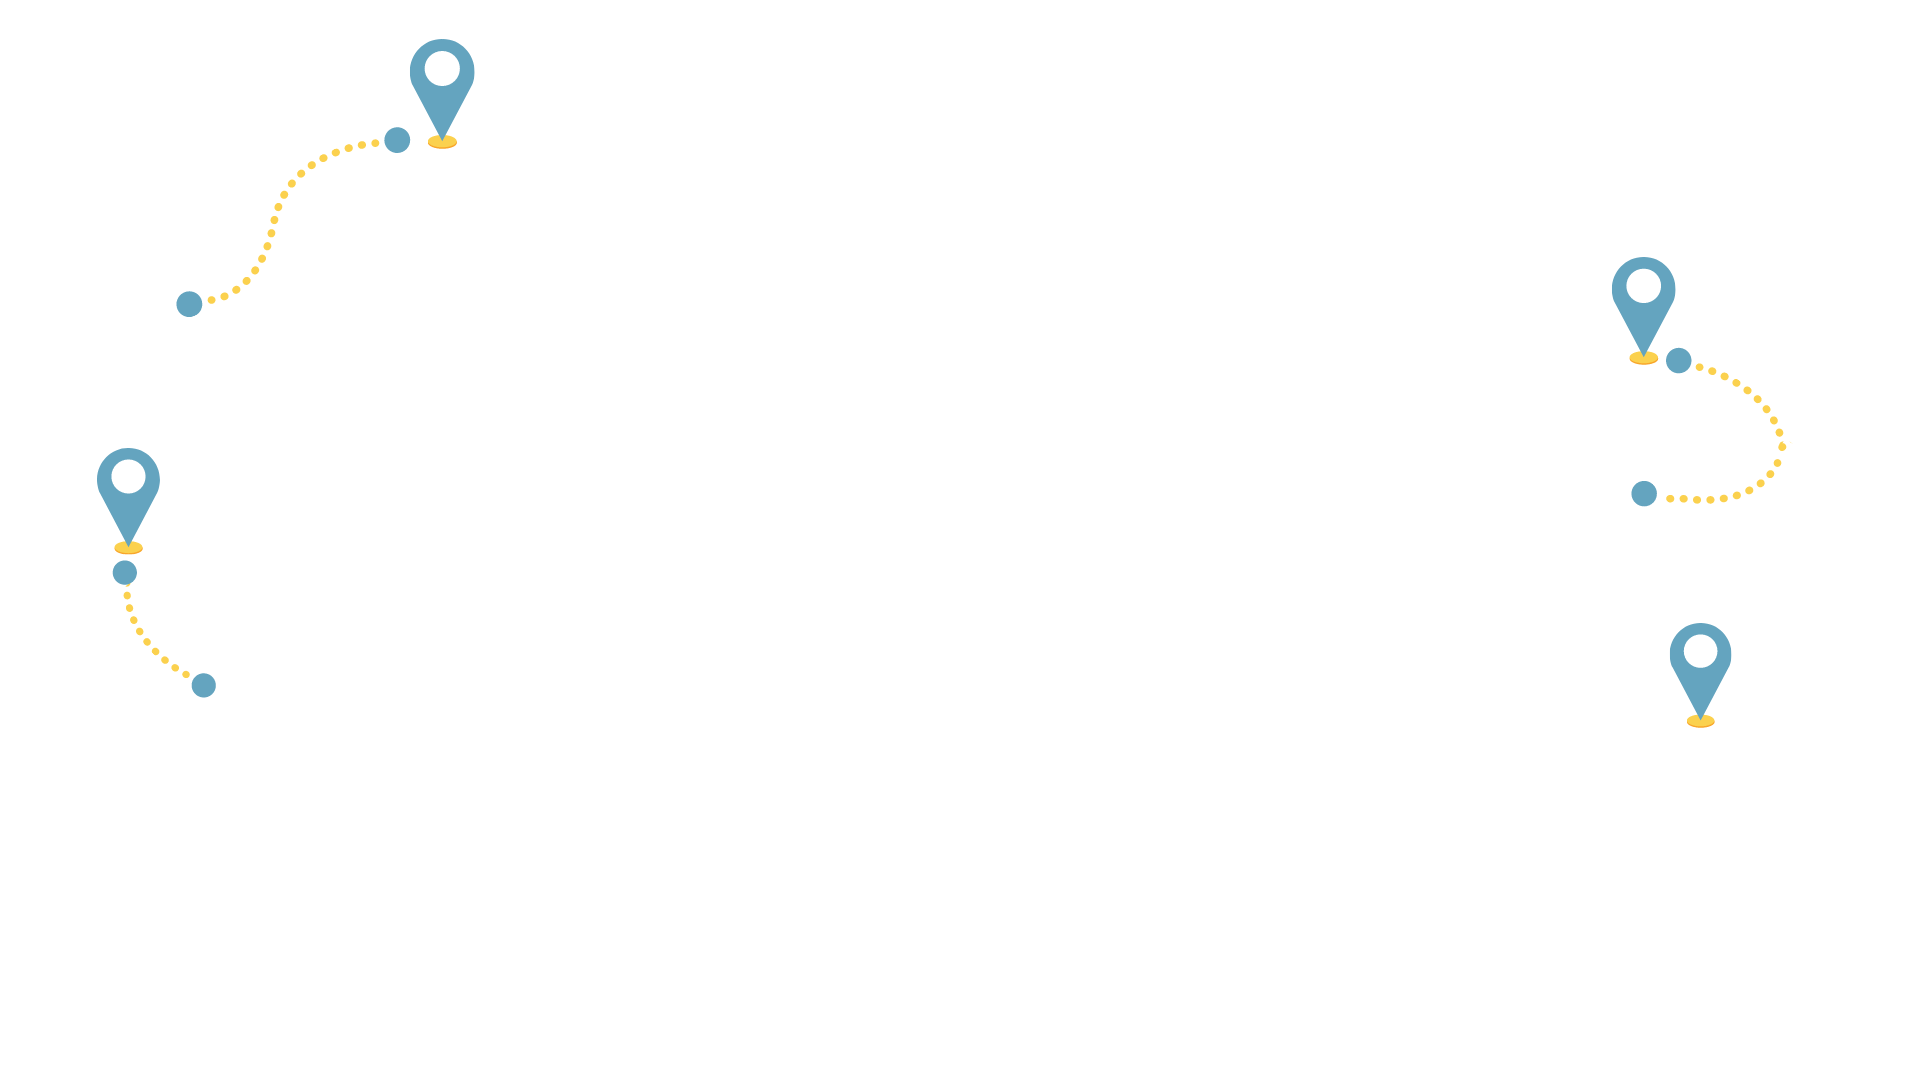
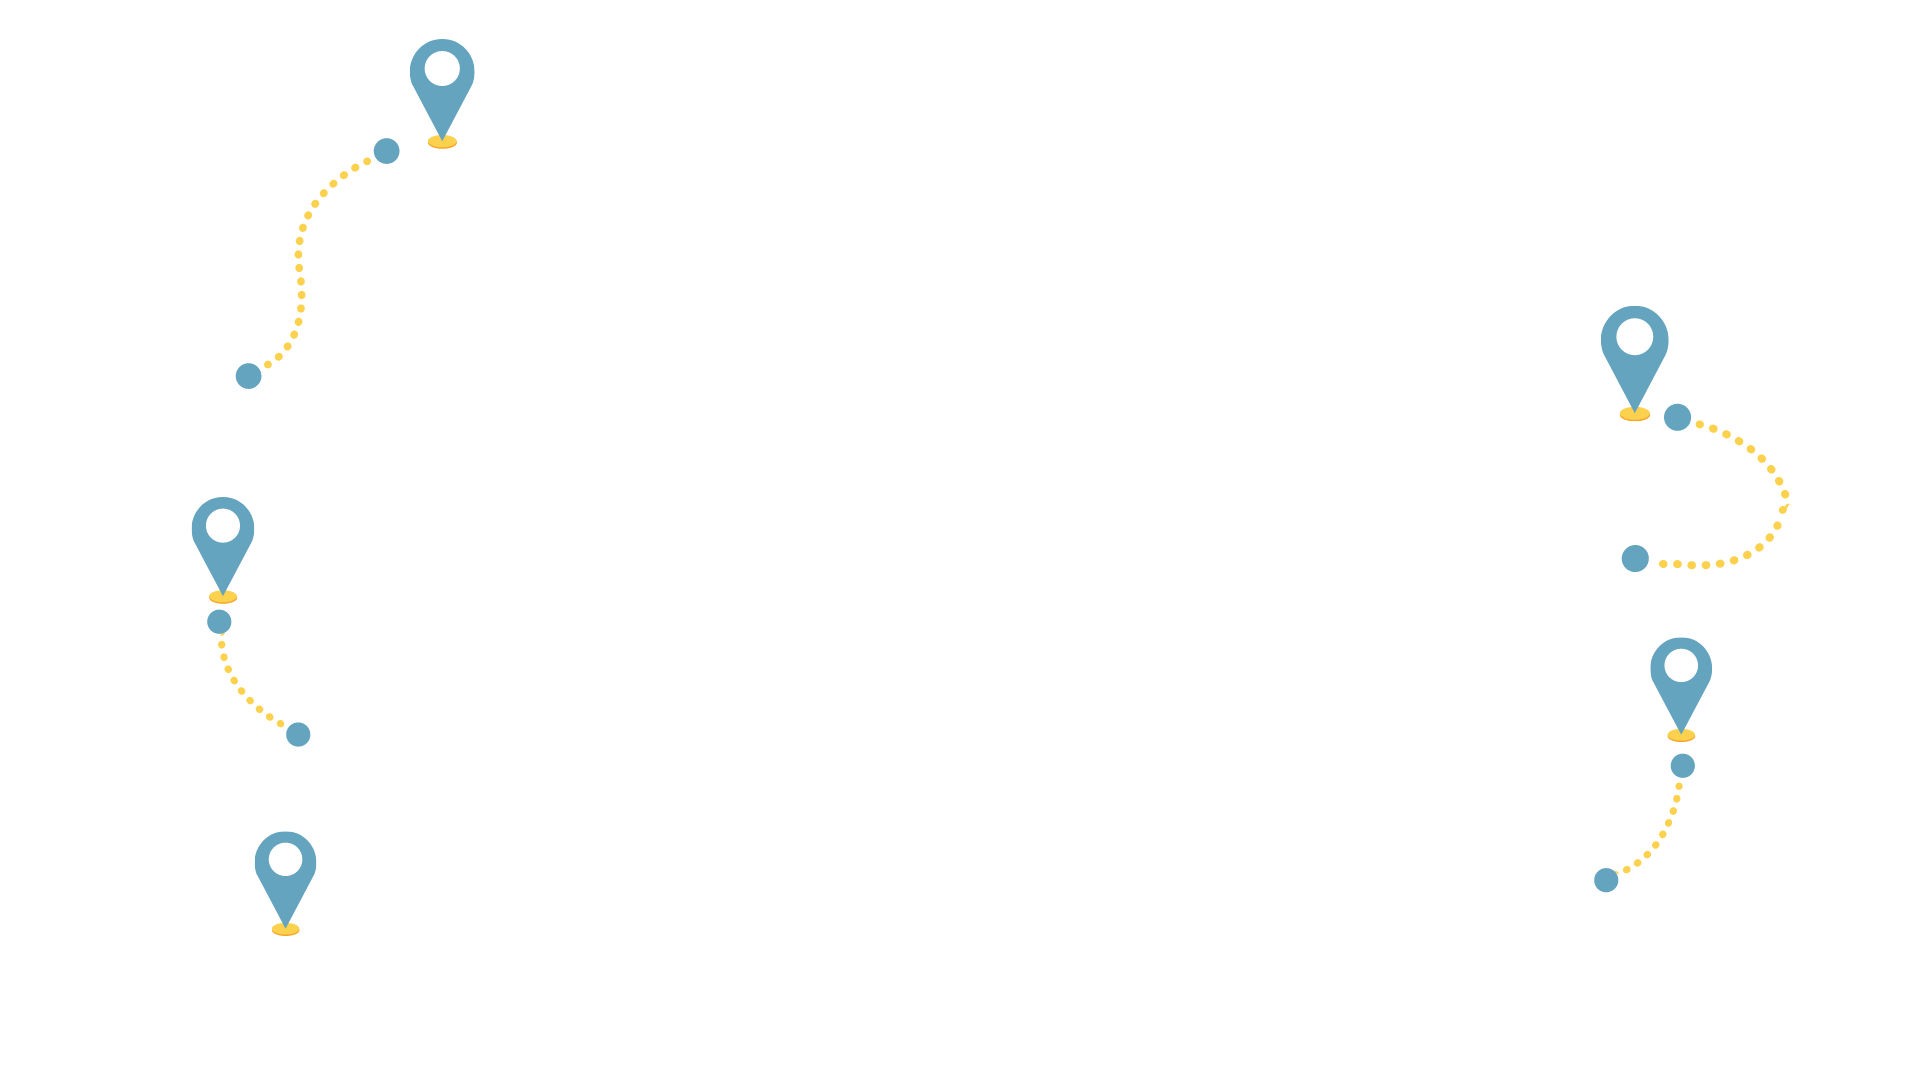
Add styling

diff --git a/main.css b/main.css
@@ -36,11 +36,16 @@ h1 {
 .blurb p {
     margin: 0 17% 0 17%;
     line-height: 7rem;
+    background-color: rgba(252, 235, 138, 0.151);
+    padding: 2rem;
+    margin-top: 2rem;
+    border-radius: 20px;
 }
 
 .pins {
     background-image: url(resources/images/Landmark.png);
     background-size: cover;
+    justify-content: center;
 }
 
 body {
@@ -61,7 +66,12 @@ footer {
 }
 
 #ok {
-
+    text-decoration: none;
+    font-weight: 400;
+    border-radius: 10px;
+    background-color: rgb(84, 182, 182);
+    color: white;
+    padding: 1rem;
 }
 
 @media only screen and (max-width: 1400px) {
@@ -74,11 +84,19 @@ footer {
         padding: 10rem 0 0.6rem 0;
     }
 
+    .intro {
+        font-size: 1.7rem;
+    }
+
     .blurb {
         font-size: 20px;
     }
 
     #name {
         padding: 1rem 3rem;
+    }
+
+    .pins {
+        background-image: url(resources/images/LandmarkLaptop.png);
     }
 }
